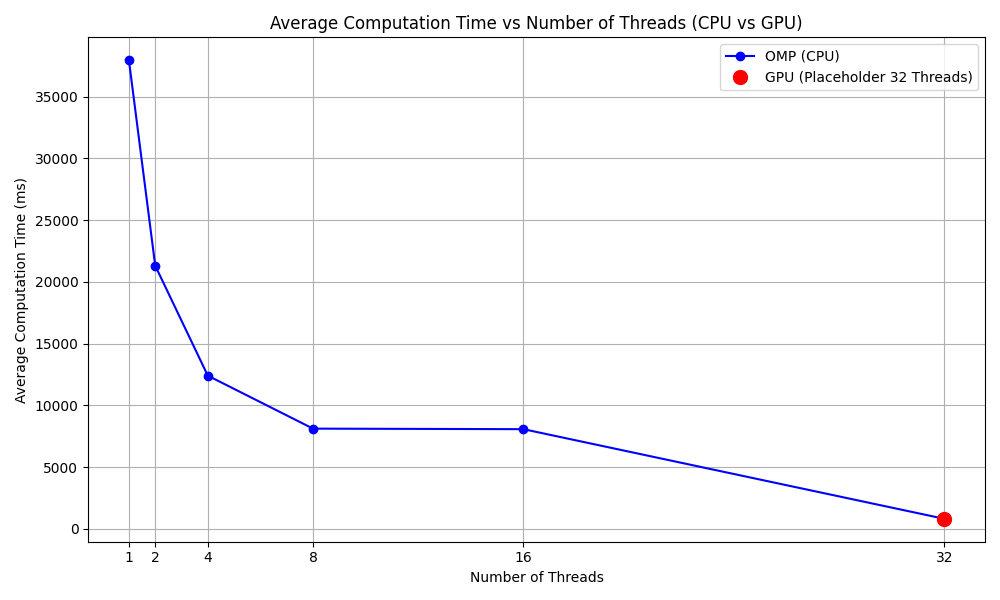
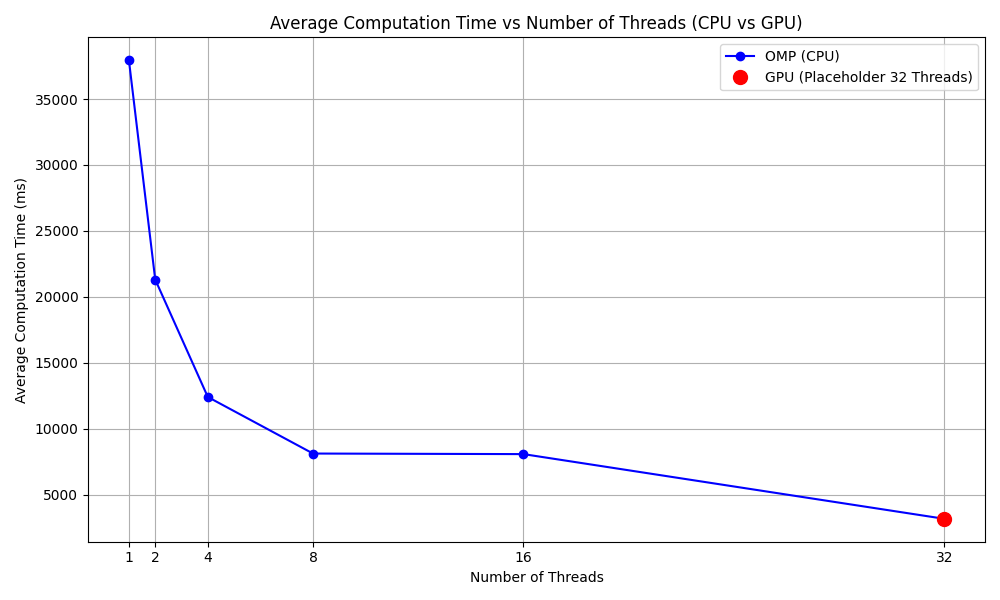
update informe

diff --git a/metrics_and_plots/plots.py b/metrics_and_plots/plots.py
@@ -19,14 +19,14 @@ def extract_thread_count(filename):
     return None
 
 def read_and_average_computation_time(filename):
-    """Read CSV and compute average of computation_time_ms."""
+    """Read CSV and compute average of total_time_ms."""
     df = pd.read_csv(filename)
-    return df["computation_time_ms"].mean()
+    return df["total_time_ms"].mean()
 
 def compute_gflops_cpu(filename):
     """Compute average GFLOP/s per step for a CPU CSV using FLOP_PER_STEP and per-step time."""
     df = pd.read_csv(filename)
-    gflops_per_step = FLOP_PER_STEP / (df["computation_time_ms"] / 1000.0) / 1e9
+    gflops_per_step = FLOP_PER_STEP / (df["total_time_ms"] / 1000.0) / 1e9
     return gflops_per_step.mean()
 
 def compute_gflops_gpu(filename):

diff --git a/Informe.md b/Informe.md
@@ -198,7 +198,22 @@ Para ejecutr de forma secuencial, simplemente obviar ```-fopenmp``` y ```OMP_NUM
 
 ## Gráficas
 
+Debido a la complejidad del cálculo de la cantidad de threads utilizados en el entrenamiento con GPU, utilizamos el placeholder 32 para representar la cantidad de hilos en las gráficas. Esto se debe a que el entrenamiento con GPU no se basa en un número fijo de hilos como en CPU, sino que utiliza una arquitectura de hilos más compleja y dinámica; esto está definido en los archivos ```llmc/*.cuh```.
+
+
+### Tiempo promedio por step vs. cantidad de hilos
+Se calculó el tiempo que tarda un step (un step considera el forward y backward pass) en promedio, y se graficó contra la cantidad de hilos utilizados. El tiempo incluye tanto el tiempo de cómputo como el de sincronización.
 ![Tiempo promedio por step por cantidad de hilos.](metrics_and_plots/avg_computation_time_with_gpu.png)
 
+
+### GFLOP/s promedio por step vs. cantidad de hilos
+Los GFLOP/s se calcularon como el número de operaciones de punto flotante realizadas por segundo durante el entrenamiento. Para ello, fue necesario conocer la cantidad de operaciones de punto flotante que sucede en cada step del entrenamiento. Esta cantidad ya está definida por la arquitectura del Transformer (el código original ya lo tenía), y está en la variable ```flops_per_step``` en la función ```gpt2_estimate_mfu``` de ```train_gpt2.cu```. Se graficó el promedio de GFLOP/s por step contra la cantidad de hilos utilizados.
 ![GFLOP/s promedio por step por cantidad de hilos.](metrics_and_plots/gflops_per_step_vs_threads.png)
+
+### Speedup por step vs. cantidad de hilos
+
+Finalmente, calculamos el speedup como la razón entre el tiempo promedio por step en la ejecución secuencial y el tiempo promedio por step con múltiples hilos. Se graficó el speedup contra la cantidad de hilos utilizados.
+
+Visualmente se ve proporcional a los GFLOP/s, lo cual es concordante con lo esperado por la teoría.
 ![Speedup por step por cantidad de hilos.](metrics_and_plots/speedup_vs_threads.png)
+
